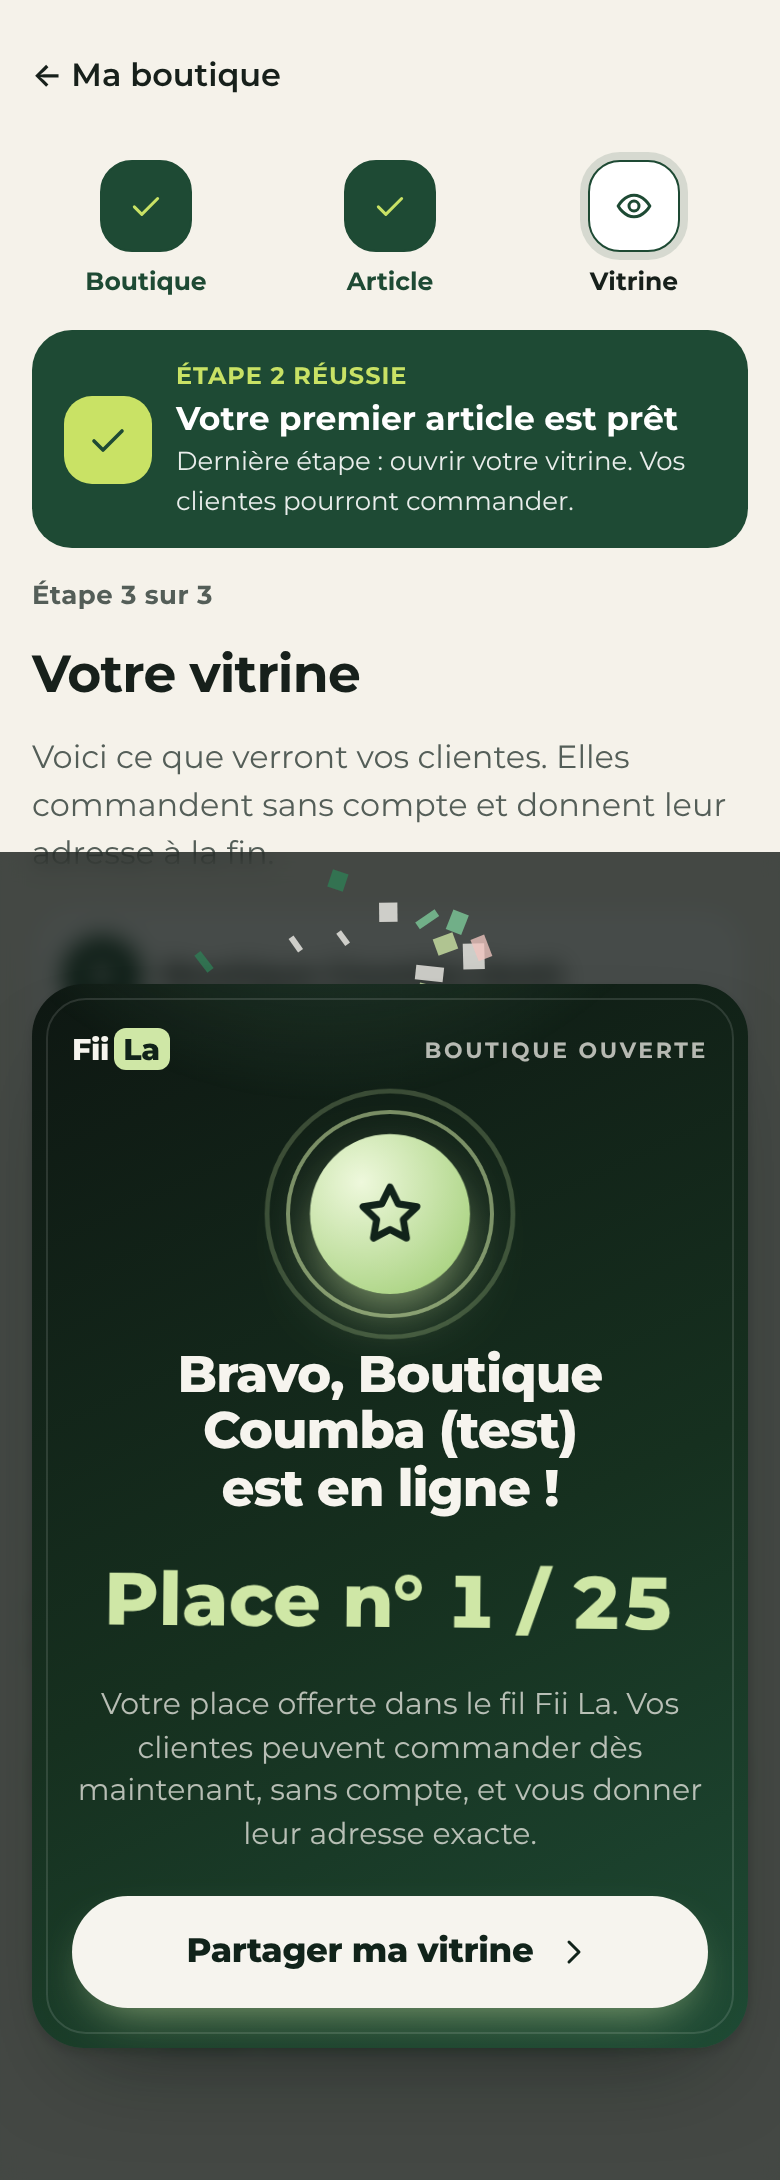
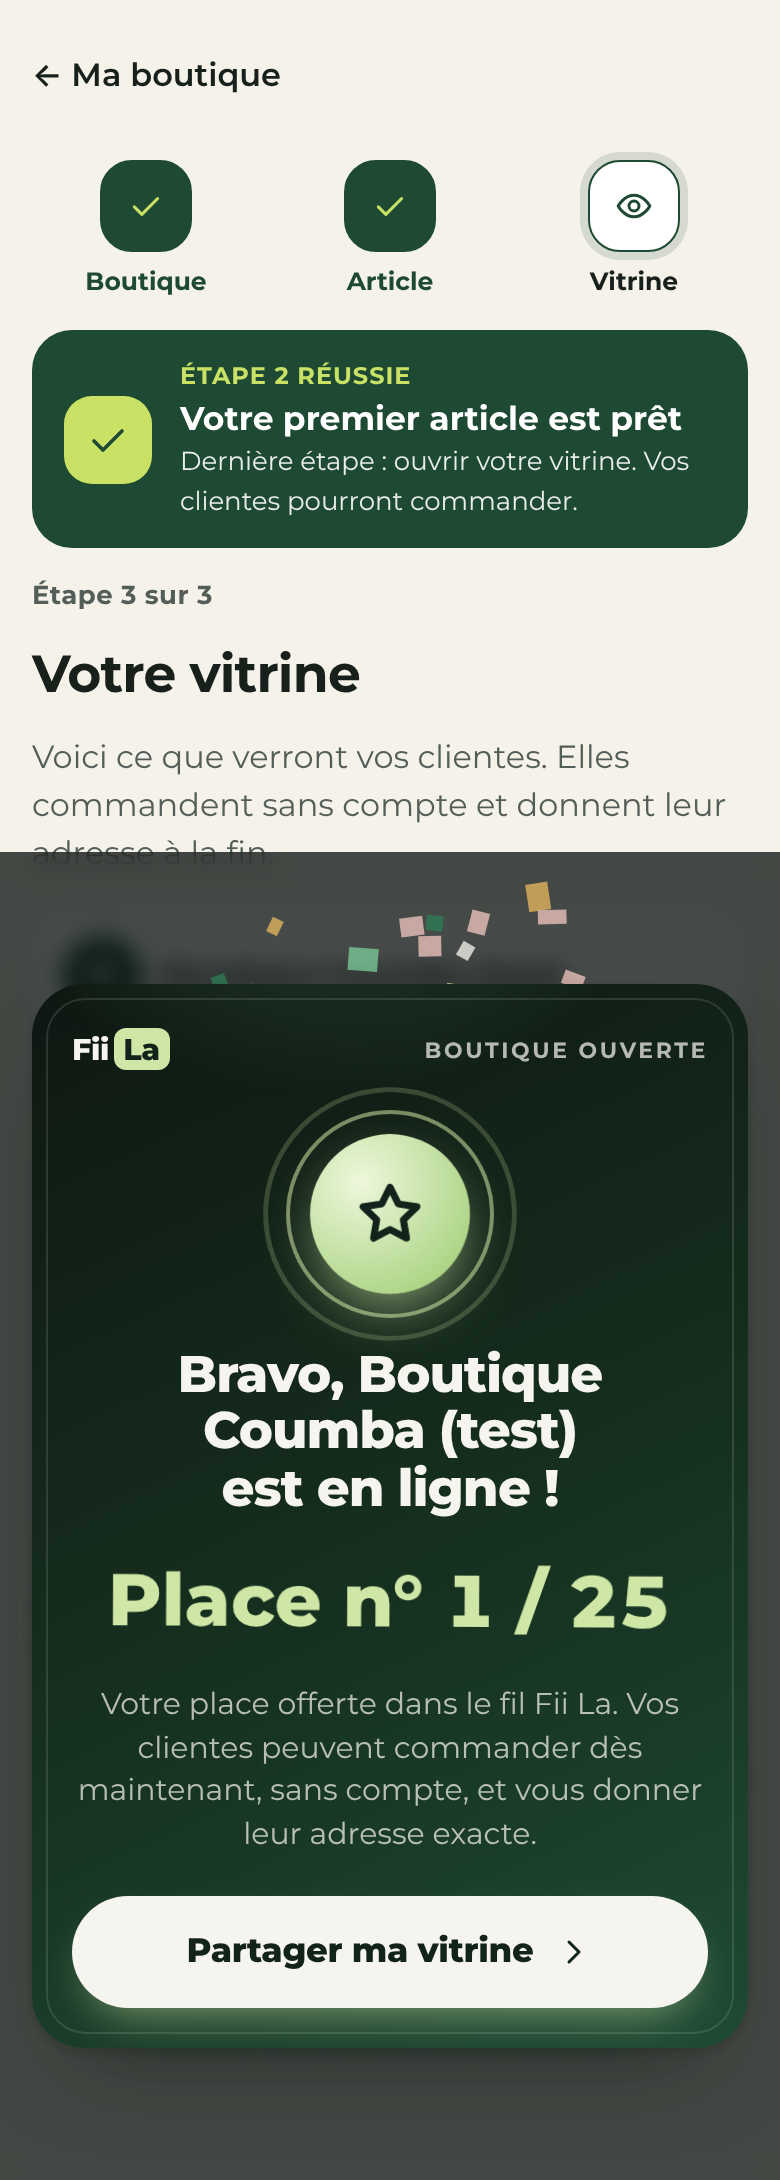
Démarrage boutique : paillettes limitées à l'icône, plus de superposition sur le texte de la carte d'étape
Claude-Session: https://claude.ai/code/session_017YReozxuCfYpxhCwcYgwRE

diff --git a/web/styles.css b/web/styles.css
@@ -1634,21 +1634,22 @@ kbd{font:600 11.5px/1 ui-monospace,SFMono-Regular,Menlo,monospace;padding:4px 6p
 .sb-now{color:var(--ink)}
 .sb-done .sb-ic{background:var(--green);border-color:var(--green);color:var(--lime);animation:setup-pop .45s cubic-bezier(.22,.61,.36,1)}
 .sb-done{color:var(--green)}
-.setup-win{position:relative;overflow:hidden;display:flex;gap:12px;align-items:center;padding:14px 16px;border-radius:20px;background:var(--green);color:var(--on-green);animation:setup-in .5s cubic-bezier(.22,.61,.36,1)}
-.setup-win>div{display:flex;flex-direction:column;gap:2px;min-width:0;position:relative;z-index:1}
+.setup-win{position:relative;overflow:hidden;isolation:isolate;transform:translateZ(0);display:flex;gap:14px;align-items:center;padding:14px 16px;border-radius:20px;background:var(--green);color:var(--on-green);animation:setup-in .5s cubic-bezier(.22,.61,.36,1)}
+.setup-win>div{display:flex;flex-direction:column;gap:2px;min-width:0}
 .setup-win b{font-size:16.5px;line-height:1.25}
-.setup-win span{font-size:13px;opacity:.9}
+.setup-win>div>span{font-size:13px;opacity:.9}
 .setup-win-k{margin:0;font-size:12px;font-weight:700;letter-spacing:.04em;text-transform:uppercase;color:var(--lime)}
-.setup-win-ic{flex:none;width:44px;height:44px;border-radius:14px;background:var(--lime);color:var(--green);display:flex;align-items:center;justify-content:center;position:relative;z-index:1;animation:setup-pop .5s .15s both cubic-bezier(.22,.61,.36,1)}
-.setup-win-spark{position:absolute;inset:0;pointer-events:none}
-.setup-win-spark i{position:absolute;width:7px;height:7px;border-radius:2px;background:var(--lime);opacity:0;animation:setup-spark 1.4s .2s ease-out forwards}
-.setup-win-spark i:nth-child(1){left:12%;top:70%}
-.setup-win-spark i:nth-child(2){left:38%;top:80%;animation-delay:.35s;background:#fff}
-.setup-win-spark i:nth-child(3){left:62%;top:75%;animation-delay:.25s}
-.setup-win-spark i:nth-child(4){left:80%;top:85%;animation-delay:.45s;background:#fff}
-.setup-win-spark i:nth-child(5){left:92%;top:65%;animation-delay:.3s}
+/* L'icône et ses paillettes restent dans leur propre zone : rien ne passe sur le texte (retour du fondateur, 21/10 04:23). */
+.setup-win-ic{flex:none;position:relative;width:44px;height:44px;border-radius:14px;background:var(--lime);color:var(--green);display:flex;align-items:center;justify-content:center;animation:setup-pop .5s .15s both cubic-bezier(.22,.61,.36,1)}
+.setup-win-spark{position:absolute;inset:-14px;pointer-events:none;opacity:1}
+.setup-win-spark i{position:absolute;width:6px;height:6px;border-radius:2px;background:var(--lime);opacity:0;animation:setup-spark 1.1s .25s ease-out forwards}
+.setup-win-spark i:nth-child(1){left:50%;top:50%;--x:-22px;--y:-20px}
+.setup-win-spark i:nth-child(2){left:50%;top:50%;--x:22px;--y:-22px;background:#fff;animation-delay:.35s}
+.setup-win-spark i:nth-child(3){left:50%;top:50%;--x:-24px;--y:18px;animation-delay:.3s}
+.setup-win-spark i:nth-child(4){left:50%;top:50%;--x:20px;--y:20px;background:#fff;animation-delay:.4s}
+.setup-win-spark i:nth-child(5){left:50%;top:50%;--x:0;--y:-28px;animation-delay:.45s}
 @keyframes setup-in{from{transform:translateY(10px) scale(.97);opacity:0}to{transform:none;opacity:1}}
-@keyframes setup-spark{0%{opacity:0;transform:translateY(0) rotate(0)}20%{opacity:1}100%{opacity:0;transform:translateY(-60px) rotate(160deg)}}
+@keyframes setup-spark{0%{opacity:0;transform:translate(-50%,-50%)}25%{opacity:1}100%{opacity:0;transform:translate(calc(-50% + var(--x)),calc(-50% + var(--y))) rotate(120deg)}}
 @media (prefers-reduced-motion: reduce){.setup-win,.setup-win-ic,.sb-done .sb-ic{animation:none}.setup-win-spark{display:none}}
 
 /* Découverte après une action (lot 3, 21/10) : une ligne discrète sous la tâche, masquable. */

diff --git a/web/app.js b/web/app.js
@@ -4788,9 +4788,9 @@
     var t = n === 2 ? ['Étape 1 réussie', '« ' + j.name + ' » est créée', 'Prochaine étape : votre premier article. Une photo et un prix suffisent.']
       : ['Étape 2 réussie', 'Votre premier article est prêt', 'Dernière étape : ouvrir votre vitrine. Vos clientes pourront commander.'];
     return h('section', { class: 'setup-win', id: 'setup-win', role: 'status' },
-      h('span', { class: 'setup-win-ic', 'aria-hidden': 'true' }, icon('check', 24)),
-      h('div', null, h('p', { class: 'setup-win-k' }, t[0]), h('b', { class: 'wrapword' }, t[1]), h('span', null, t[2])),
-      h('span', { class: 'setup-win-spark', 'aria-hidden': 'true' }, h('i'), h('i'), h('i'), h('i'), h('i')));
+      h('span', { class: 'setup-win-ic', 'aria-hidden': 'true' }, icon('check', 24),
+        h('span', { class: 'setup-win-spark' }, h('i'), h('i'), h('i'), h('i'), h('i'))),
+      h('div', null, h('p', { class: 'setup-win-k' }, t[0]), h('b', { class: 'wrapword' }, t[1]), h('span', null, t[2])));
   }
   function setupFrame(n, title, text, body) {
     return page(backBtn(n === 1 ? 'Accueil' : 'Ma boutique', n === 1 ? '#/' : '#/boutique'),

diff --git a/docs/HANDOFF.md b/docs/HANDOFF.md
@@ -225,6 +225,7 @@ Les tests créent puis suppriment des données synthétiques. Ne jamais lancer l
 
 | Date (Dakar) | Action | Commit / preuve |
 |---|---|---|
+| 21/10 04:35 | Correctif signalé par le fondateur (04:23, superposition à l'étape 2) : les paillettes de la carte « Étape réussie » passaient sur le texte ; elles partent maintenant de l'icône seulement, et la carte découpe proprement son fond (Safari) | ce commit |
 | 21/10 02:15 | Compression du code à la mise en ligne (esbuild) et dans le serveur de test : page reçue 207 Ko / 250. Correctif : déclarations du vide-dressing retirées par erreur avec le code mort, restaurées (la vitrine ne s'affichait plus en local ; jamais en ligne) | ce commit |
 | 21/10 01:55 | Pages reçues par lien : les réglages de découverte sont lus sans rien écrire sur le téléphone (règle « rien sans action ») ; code mort retiré (ancienne page d'admin des ambassadeurs) : page reçue 249 Ko / 250 | ce commit |
 | 21/10 01:35 | Lot 3 (découverte après une action, réglage, mesures, tableau au back-office) et cartes de félicitations du démarrage de la boutique (badges, « Étape réussie », grande carte finale avec confettis et place du fil) | ce commit |
